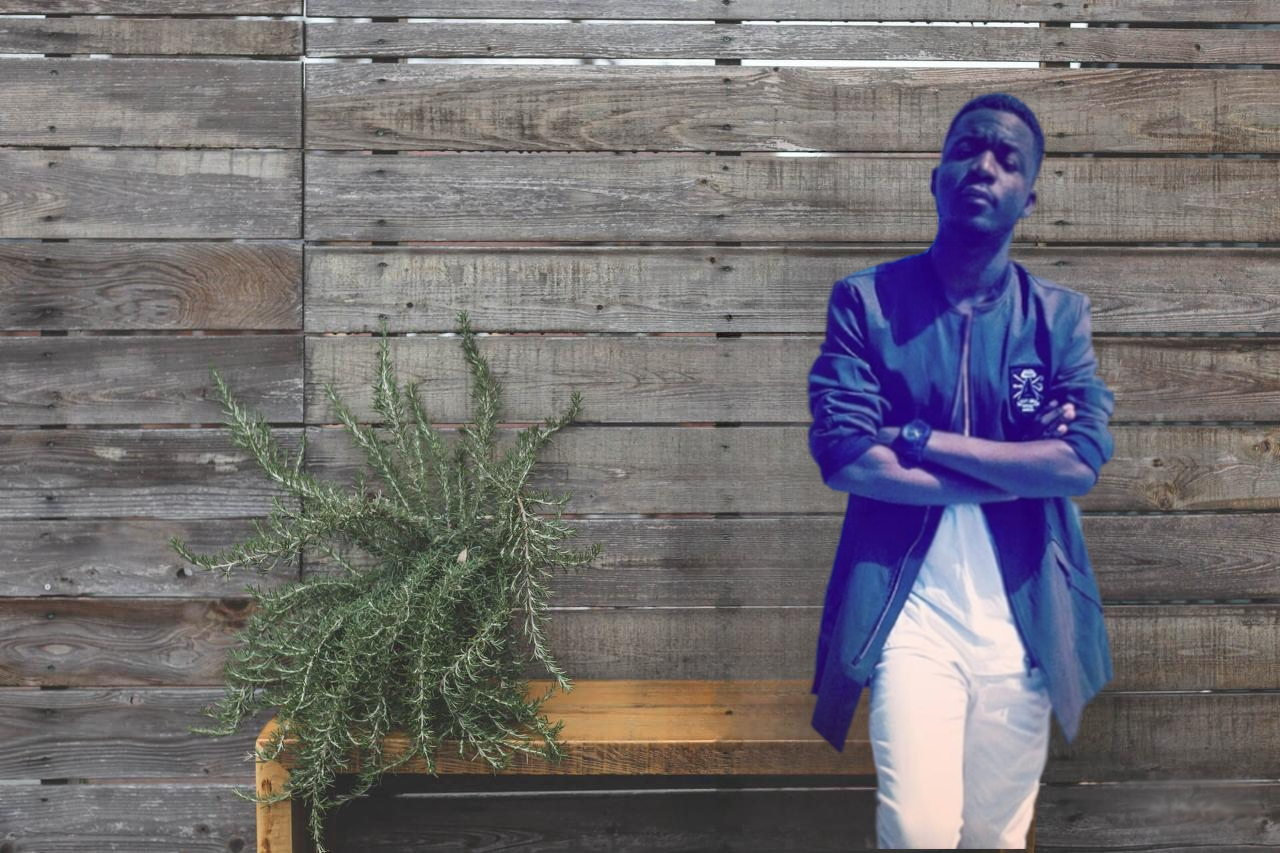
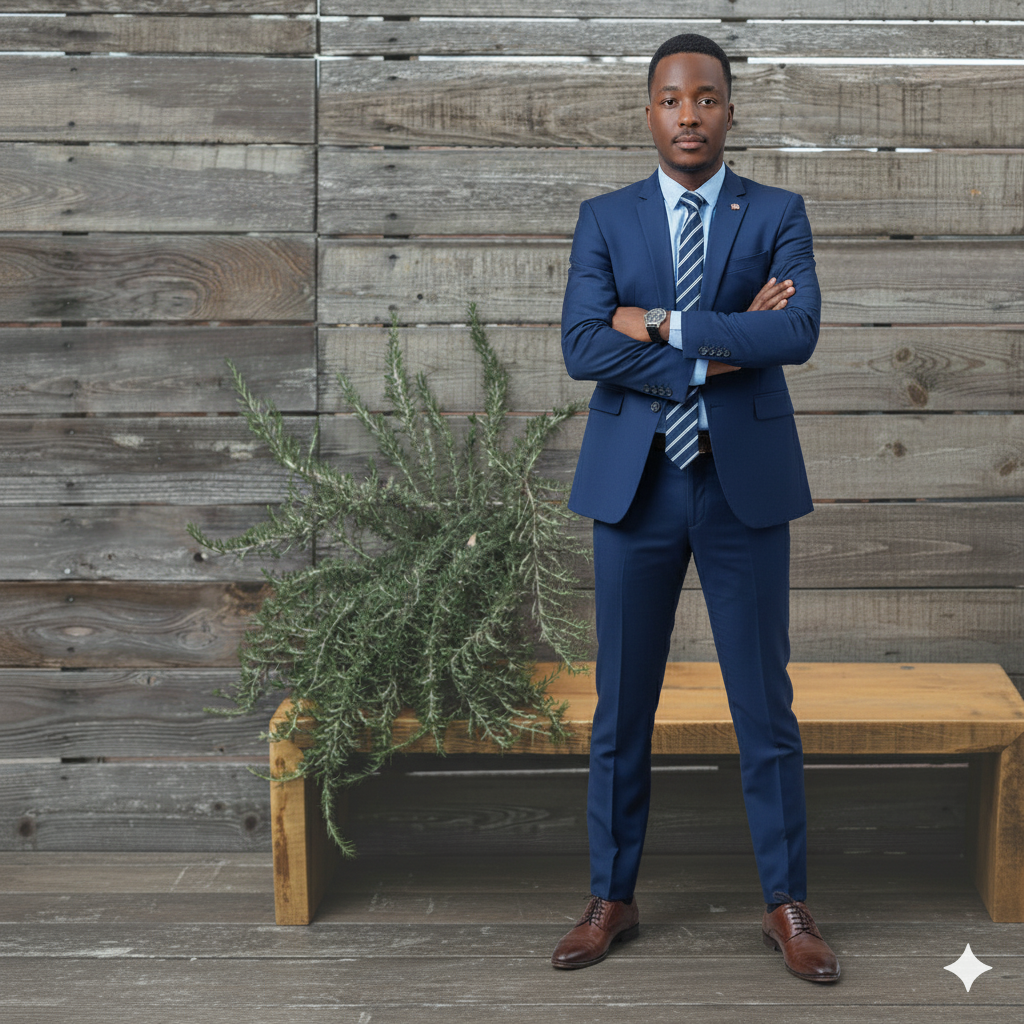
update portfolio

diff --git a/index.html b/index.html
@@ -42,7 +42,7 @@
     <i class="header-toggle d-xl-none bi bi-list"></i>
 
     <div class="profile-img">
-      <img src="assets/img/yves1.jpg" style="width: 120px;height: 120px;border-radius: 50%;" alt="" class="img-fluid rounded-circle">
+      <img src="assets/img/pro.png" style="width: 120px;height: 120px;border-radius: 50%;" alt="" class="img-fluid rounded-circle">
     </div>
 
     <a href="index.html" class="logo d-flex align-items-center justify-content-center">
@@ -481,6 +481,18 @@
                 </div>
               </div>
           </div><!-- End Portfolio Item -->
+           
+          <div class="col-lg-4 col-md-6 portfolio-item isotope-item filter-app">
+              <div class="portfolio-content h-100">
+                <img src="assets/img/portfolio/travel/travel-webapp-1.png"  class="img-fluid" alt="">
+                <div class="portfolio-info">
+                  <h4>Application web Travel</h4>
+                  <p>Solution de gestion de flotte de véhicules de livraison et de transport.</p>
+                  <a href="assets/img/portfolio/travel/travel-webapp-1.png" title="App 1" data-gallery="portfolio-gallery-app" class="glightbox preview-link"><i class="bi bi-zoom-in"></i></a>
+                  <a target="_blank" href="travel-webapp.html" title="Plus de détails" class="details-link"><i class="bi bi-link-45deg"></i></a>
+                </div>
+              </div>
+          </div><!-- End Portfolio Item -->
 
             <div class="col-lg-4 col-md-6 portfolio-item isotope-item filter-app">
                 <div class="portfolio-content h-100">
@@ -516,7 +528,7 @@
                   <a target="_blank" href="stransport-app.html" title="Plus de détails" class="details-link"><i class="bi bi-link-45deg"></i></a>
                 </div>
               </div>
-          </div><!-- End Portfolio Item -->
+            </div><!-- End Portfolio Item -->
 
           <div class="col-lg-4 col-md-6 portfolio-item isotope-item filter-app">
             <div class="portfolio-content h-100">

diff --git a/assets/css/main.css b/assets/css/main.css
@@ -557,7 +557,7 @@ section,
   inset: 0;
   display: block;
   width: 100%;
-  height: 100%;
+  /* height: 100%; */
   object-fit: cover;
   z-index: 1;
 }
